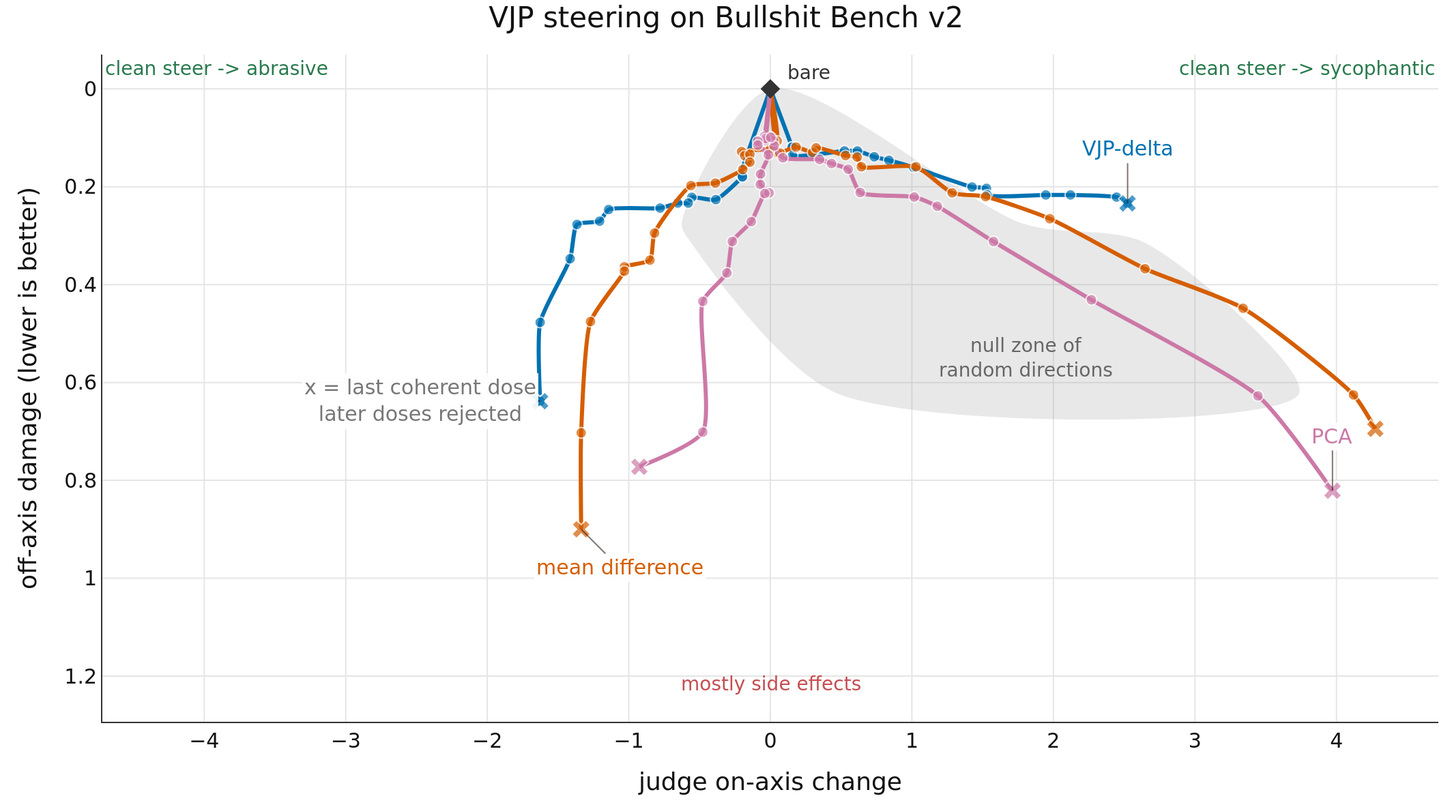
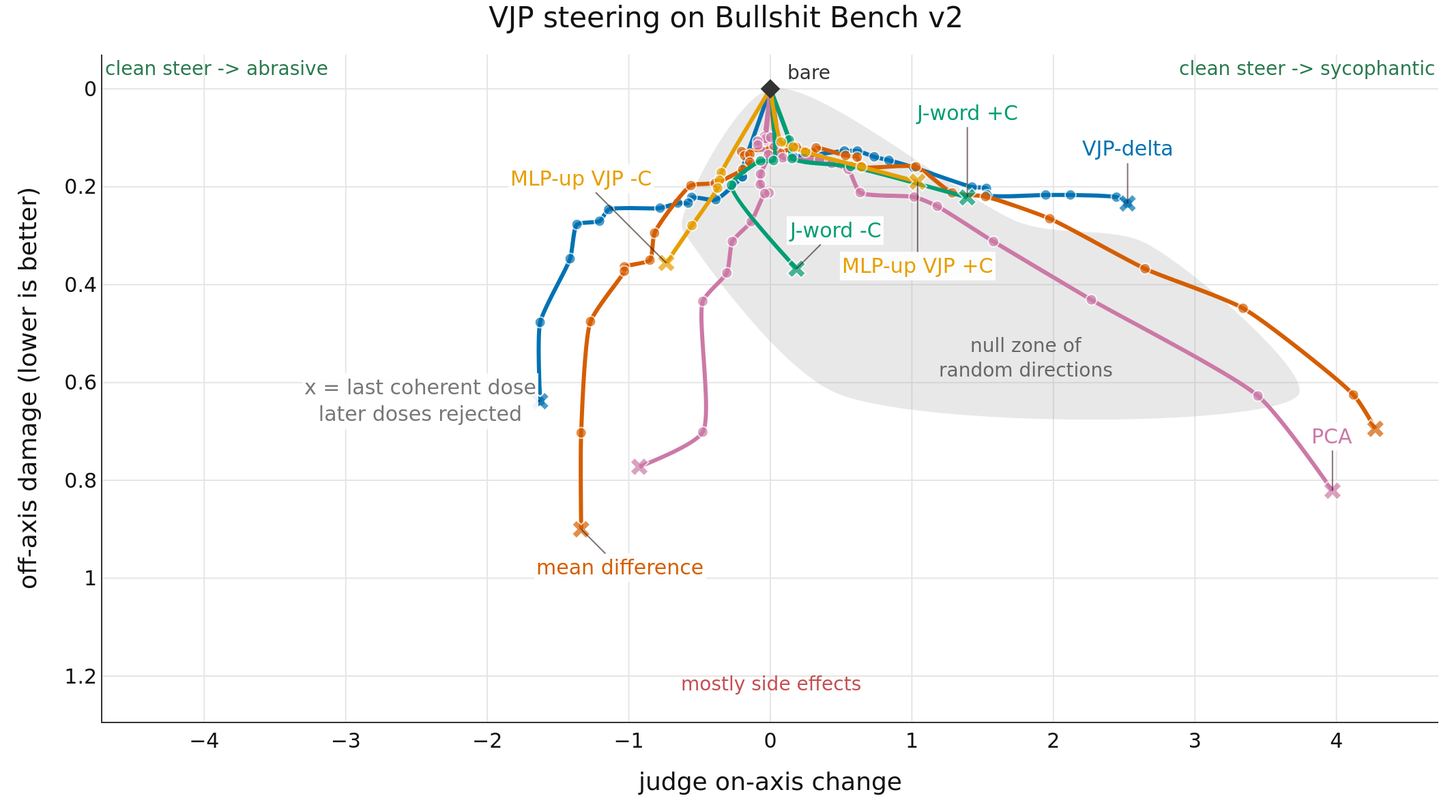
Publish judged steering results

diff --git a/index.html b/index.html
@@ -1,2 +1,2 @@
-<!doctype html><meta charset='utf-8'><title>vjp-steering results</title><style>body{font:16px system-ui;max-width:1064px;margin:2rem auto;padding:0 1rem}.plotly-graph-div{width:100%!important}table{border-collapse:collapse;width:100%}th,td{padding:.35rem .7rem;border-bottom:1px solid #ccc}th{text-align:left}img{max-width:100%}</style><h1>Results</h1><p>All rows use the same all-100 evaluation cohort. Named-method points are means over three seeds. The figure shows both steering directions. The random cone shows ten vectors until fewer than half have two coherent directions. The table reports rejected evaluations.</p><div style="height:590px; width:100%;">                        <script>window.PlotlyConfig = {MathJaxConfig: 'local'};</script>
-        <script charset="utf-8" src="https://cdn.plot.ly/plotly-3.7.0.min.js" integrity="sha256-jvTGqxNp8AGWEcvNLVuKr+8j5dGe9Yw51LQkmDH+IYA=" crossorigin="anonymous"></script>                <div id="results-plot" class="plotly-graph-div" style="height:100%; width:100%;"></div>            <script>                window.PLOTLYENV=window.PLOTLYENV || {};                                if (document.getElementById("results-plot")) {                    Plotly.newPlot(                        "results-plot",                        [{"fill":"toself","fillcolor":"rgba(150,150,150,0.22)","hoverinfo":"skip","line":{"color":"rgba(150,150,150,0)","shape":"spline","smoothing":0.8,"width":0},"showlegend":false,"x":[0.0,-0.62575,-0.558,0.46725,3.73775,2.65025,1.7845,0.0],"y":[0.0,0.2755,0.315,0.621625,0.621625,0.315,0.2755,0.0],"type":"scatter"},{"hovertemplate":"vjp_delta (ours)\u003cbr\u003e%{text}\u003cbr\u003eeffect=%{x:.3f}\u003cbr\u003edamage=%{y:.3f}\u003cextra\u003e\u003c\u002fextra\u003e","line":{"color":"#0072b2","shape":"spline","smoothing":0.6,"width":3},"marker":{"color":"#0072b2","size":[0,8,8,8,8,8,8,8,8,8,8,8,8,8,8,8,12],"symbol":["circle","circle","circle","circle","circle","circle","circle","circle","circle","circle","circle","circle","circle","circle","circle","circle","x"]},"mode":"lines+markers","showlegend":false,"text":["bare","C=0.03125","C=0.0350769","C=0.0393725","C=0.0496063","C=0.0556812","C=0.0625","C=0.0701539","C=0.0787451","C=0.0992126","C=0.111362","C=0.125","C=0.140308","C=0.15749","C=0.198425","C=0.222725","C=0.25"],"x":[0,0.15408333333333332,0.15408333333333332,0.15683333333333332,0.523505,0.61525,0.734195,0.8376666666666667,1.01255,1.42525,1.5273333333333334,1.5313916666666667,1.9463333333333332,2.120833333333333,2.446108333333333,2.52425,2.52425],"y":[0,0.11908333333333333,0.11908333333333333,0.13625,0.12689166666666668,0.12689166666666668,0.138825,0.14605833333333335,0.16058333333333333,0.20058333333333334,0.20333333333333334,0.21683333333333332,0.21683333333333332,0.21683333333333332,0.22125,0.23416666666666666,0.23416666666666666],"type":"scatter"},{"hovertemplate":"vjp_delta (ours)\u003cbr\u003e%{text}\u003cbr\u003eeffect=%{x:.3f}\u003cbr\u003edamage=%{y:.3f}\u003cextra\u003e\u003c\u002fextra\u003e","line":{"color":"#0072b2","shape":"spline","smoothing":0.6,"width":3},"marker":{"color":"#0072b2","size":[0,8,8,8,8,8,8,8,8,8,8,8,8,8,8,8,12],"symbol":["circle","circle","circle","circle","circle","circle","circle","circle","circle","circle","circle","circle","circle","circle","circle","circle","x"]},"mode":"lines+markers","showlegend":false,"text":["bare","C=0.03125","C=0.0350769","C=0.0393725","C=0.0441942","C=0.0556812","C=0.0625","C=0.0701539","C=0.0787451","C=0.0883883","C=0.0992126","C=0.111362","C=0.125","C=0.15749","C=0.176777","C=0.198425","C=0.222725"],"x":[0,-0.21149999999999997,-0.21149999999999997,-0.19706166666666666,-0.19706166666666666,-0.38541666666666663,-0.5555,-0.5802475,-0.6541825,-0.7786916666666667,-1.1425916666666667,-1.2064459166666666,-1.3664367499999999,-1.4146759258333332,-1.6265833333333333,-1.6265833333333333,-1.6265833333333333],"y":[0,0.17399916666666668,0.17399916666666668,0.17980000000000002,0.17980000000000002,0.22644166666666665,0.22171083333333333,0.2334416666666667,0.2334416666666667,0.24366666666666667,0.24663333333333334,0.270425,0.27708333333333335,0.3471666666666667,0.4771666666666667,0.63825,0.63825],"type":"scatter"},{"hovertemplate":"mean_diff (baseline)\u003cbr\u003e%{text}\u003cbr\u003eeffect=%{x:.3f}\u003cbr\u003edamage=%{y:.3f}\u003cextra\u003e\u003c\u002fextra\u003e","line":{"color":"#d55e00","shape":"spline","smoothing":0.6,"width":3},"marker":{"color":"#d55e00","size":[0,8,8,8,8,8,8,8,8,8,8,8,8,8,8,8,12],"symbol":["circle","circle","circle","circle","circle","circle","circle","circle","circle","circle","circle","circle","circle","circle","circle","circle","x"]},"mode":"lines+markers","showlegend":false,"text":["bare","C=0.03125","C=0.0393725","C=0.0496063","C=0.0625","C=0.0787451","C=0.0992126","C=0.125","C=0.15749","C=0.198425","C=0.25","C=0.31498","C=0.39685","C=0.5","C=0.629961","C=0.793701","C=1"],"x":[0,0.04861,0.06719373583333334,0.18175,0.29885999999999996,0.3235,0.5315,0.61375,0.643,1.0288416666666667,1.2845833333333334,1.5210833333333333,1.9748333333333332,2.6473333333333335,3.3405,4.120416666666666,4.27475],"y":[0,0.131,0.131,0.119,0.12999166666666667,0.120625,0.13633333333333333,0.1395,0.15925,0.15925,0.21252916666666666,0.22025,0.26541666666666663,0.3675833333333333,0.44833333333333336,0.6254166666666666,0.6946666666666667],"type":"scatter"},{"hovertemplate":"mean_diff (baseline)\u003cbr\u003e%{text}\u003cbr\u003eeffect=%{x:.3f}\u003cbr\u003edamage=%{y:.3f}\u003cextra\u003e\u003c\u002fextra\u003e","line":{"color":"#d55e00","shape":"spline","smoothing":0.6,"width":3},"marker":{"color":"#d55e00","size":[0,8,8,8,8,8,8,8,8,8,8,8,8,8,8,8,12],"symbol":["circle","circle","circle","circle","circle","circle","circle","circle","circle","circle","circle","circle","circle","circle","circle","circle","x"]},"mode":"lines+markers","showlegend":false,"text":["bare","C=0.03125","C=0.0393725","C=0.0496063","C=0.0625","C=0.0701539","C=0.0883883","C=0.111362","C=0.140308","C=0.176777","C=0.222725","C=0.280616","C=0.353553","C=0.39685","C=0.5","C=0.629961","C=0.793701"],"x":[0,0.04816666666666667,0.001833333333333328,-0.20354166666666668,-0.180925,-0.14454166666666668,-0.14454166666666668,-0.1947475,-0.38816416666666664,-0.5611666666666667,-0.8184166666666667,-0.8505,-1.0310833333333334,-1.0310833333333334,-1.2709166666666667,-1.3367499999999999,-1.3367499999999999],"y":[0,0.10666666666666667,0.12155,0.12821041666666666,0.1366666666666667,0.13399166666666668,0.14983333333333332,0.16475,0.19266666666666665,0.197675,0.29478333333333334,0.3500416666666667,0.36362500000000003,0.3726666666666667,0.4755,0.7029166666666666,0.9],"type":"scatter"},{"hovertemplate":"PCA\u003cbr\u003e%{text}\u003cbr\u003eeffect=%{x:.3f}\u003cbr\u003edamage=%{y:.3f}\u003cextra\u003e\u003c\u002fextra\u003e","line":{"color":"#cc79a7","shape":"spline","smoothing":0.6,"width":3},"marker":{"color":"#cc79a7","size":[0,8,8,8,8,8,8,8,8,8,8,8,8,8,8,8,12],"symbol":["circle","circle","circle","circle","circle","circle","circle","circle","circle","circle","circle","circle","circle","circle","circle","circle","x"]},"mode":"lines+markers","showlegend":false,"text":["bare","C=0.03125","C=0.0393725","C=0.0496063","C=0.0625","C=0.0787451","C=0.0992126","C=0.125","C=0.15749","C=0.222725","C=0.280616","C=0.353553","C=0.445449","C=0.561231","C=0.707107","C=0.890899","C=1.12246"],"x":[0,-0.04175,-0.04175,-0.006111666666666677,0.022609999999999984,0.02697166666666666,0.08833333333333332,0.34808333333333336,0.4325833333333334,0.55,0.6351666666666667,1.01675,1.1796083333333334,1.5768333333333333,2.268333333333333,3.4454166666666666,3.97175],"y":[0,0.10181704333333333,0.09730075333333334,0.09730075333333334,0.106125,0.11654166666666667,0.141,0.14433333333333334,0.15258333333333335,0.16439166666666666,0.21191666666666667,0.221,0.23991666666666667,0.3120833333333334,0.4310833333333333,0.6274166666666666,0.8212499999999999],"type":"scatter"},{"hovertemplate":"PCA\u003cbr\u003e%{text}\u003cbr\u003eeffect=%{x:.3f}\u003cbr\u003edamage=%{y:.3f}\u003cextra\u003e\u003c\u002fextra\u003e","line":{"color":"#cc79a7","shape":"spline","smoothing":0.6,"width":3},"marker":{"color":"#cc79a7","size":[0,8,8,8,8,8,8,8,8,8,8,8,8,8,8,8,12],"symbol":["circle","circle","circle","circle","circle","circle","circle","circle","circle","circle","circle","circle","circle","circle","circle","circle","x"]},"mode":"lines+markers","showlegend":false,"text":["bare","C=0.03125","C=0.0393725","C=0.0496063","C=0.0625","C=0.0701539","C=0.0883883","C=0.111362","C=0.140308","C=0.176777","C=0.222725","C=0.280616","C=0.353553","C=0.39685","C=0.5","C=0.629961","C=0.793701"],"x":[0,-0.03247500000000001,-0.03247500000000001,0.003671500000000007,-0.08820441666666666,-0.08820441666666666,-0.013758499999999993,-0.06905833333333332,-0.07075,-0.008969166666666672,-0.03958333333333335,-0.13466666666666666,-0.268575,-0.3070833333333333,-0.4775,-0.4775,-0.9255833333333334],"y":[0,0.10563333333333333,0.10164166666666667,0.09928333333333333,0.10703333333333334,0.11488333333333334,0.13475,0.17416666666666666,0.19533333333333333,0.21266666666666667,0.21400833333333333,0.27134166666666665,0.3118416666666667,0.37617500000000004,0.4341666666666667,0.7013333333333334,0.77225],"type":"scatter"},{"hoverinfo":"skip","marker":{"color":"#333333","size":11,"symbol":"diamond"},"mode":"markers","showlegend":false,"x":[0],"y":[0],"type":"scatter"}],                        {"template":{"data":{"histogram2dcontour":[{"type":"histogram2dcontour","colorbar":{"outlinewidth":0,"ticks":""},"colorscale":[[0.0,"#0d0887"],[0.1111111111111111,"#46039f"],[0.2222222222222222,"#7201a8"],[0.3333333333333333,"#9c179e"],[0.4444444444444444,"#bd3786"],[0.5555555555555556,"#d8576b"],[0.6666666666666666,"#ed7953"],[0.7777777777777778,"#fb9f3a"],[0.8888888888888888,"#fdca26"],[1.0,"#f0f921"]]}],"choropleth":[{"type":"choropleth","colorbar":{"outlinewidth":0,"ticks":""}}],"histogram2d":[{"type":"histogram2d","colorbar":{"outlinewidth":0,"ticks":""},"colorscale":[[0.0,"#0d0887"],[0.1111111111111111,"#46039f"],[0.2222222222222222,"#7201a8"],[0.3333333333333333,"#9c179e"],[0.4444444444444444,"#bd3786"],[0.5555555555555556,"#d8576b"],[0.6666666666666666,"#ed7953"],[0.7777777777777778,"#fb9f3a"],[0.8888888888888888,"#fdca26"],[1.0,"#f0f921"]]}],"heatmap":[{"type":"heatmap","colorbar":{"outlinewidth":0,"ticks":""},"colorscale":[[0.0,"#0d0887"],[0.1111111111111111,"#46039f"],[0.2222222222222222,"#7201a8"],[0.3333333333333333,"#9c179e"],[0.4444444444444444,"#bd3786"],[0.5555555555555556,"#d8576b"],[0.6666666666666666,"#ed7953"],[0.7777777777777778,"#fb9f3a"],[0.8888888888888888,"#fdca26"],[1.0,"#f0f921"]]}],"contourcarpet":[{"type":"contourcarpet","colorbar":{"outlinewidth":0,"ticks":""}}],"contour":[{"type":"contour","colorbar":{"outlinewidth":0,"ticks":""},"colorscale":[[0.0,"#0d0887"],[0.1111111111111111,"#46039f"],[0.2222222222222222,"#7201a8"],[0.3333333333333333,"#9c179e"],[0.4444444444444444,"#bd3786"],[0.5555555555555556,"#d8576b"],[0.6666666666666666,"#ed7953"],[0.7777777777777778,"#fb9f3a"],[0.8888888888888888,"#fdca26"],[1.0,"#f0f921"]]}],"surface":[{"type":"surface","colorbar":{"outlinewidth":0,"ticks":""},"colorscale":[[0.0,"#0d0887"],[0.1111111111111111,"#46039f"],[0.2222222222222222,"#7201a8"],[0.3333333333333333,"#9c179e"],[0.4444444444444444,"#bd3786"],[0.5555555555555556,"#d8576b"],[0.6666666666666666,"#ed7953"],[0.7777777777777778,"#fb9f3a"],[0.8888888888888888,"#fdca26"],[1.0,"#f0f921"]]}],"mesh3d":[{"type":"mesh3d","colorbar":{"outlinewidth":0,"ticks":""}}],"scatter":[{"fillpattern":{"fillmode":"overlay","size":10,"solidity":0.2},"type":"scatter"}],"parcoords":[{"type":"parcoords","line":{"colorbar":{"outlinewidth":0,"ticks":""}}}],"scatterpolargl":[{"type":"scatterpolargl","marker":{"colorbar":{"outlinewidth":0,"ticks":""}}}],"bar":[{"error_x":{"color":"#2a3f5f"},"error_y":{"color":"#2a3f5f"},"marker":{"line":{"color":"#E5ECF6","width":0.5},"pattern":{"fillmode":"overlay","size":10,"solidity":0.2}},"type":"bar"}],"scattergeo":[{"type":"scattergeo","marker":{"colorbar":{"outlinewidth":0,"ticks":""}}}],"scatterpolar":[{"type":"scatterpolar","marker":{"colorbar":{"outlinewidth":0,"ticks":""}}}],"histogram":[{"marker":{"pattern":{"fillmode":"overlay","size":10,"solidity":0.2}},"type":"histogram"}],"scattergl":[{"type":"scattergl","marker":{"colorbar":{"outlinewidth":0,"ticks":""}}}],"scatter3d":[{"type":"scatter3d","line":{"colorbar":{"outlinewidth":0,"ticks":""}},"marker":{"colorbar":{"outlinewidth":0,"ticks":""}}}],"scattermap":[{"type":"scattermap","marker":{"colorbar":{"outlinewidth":0,"ticks":""}}}],"scattermapbox":[{"type":"scattermapbox","marker":{"colorbar":{"outlinewidth":0,"ticks":""}}}],"scatterternary":[{"type":"scatterternary","marker":{"colorbar":{"outlinewidth":0,"ticks":""}}}],"scattercarpet":[{"type":"scattercarpet","marker":{"colorbar":{"outlinewidth":0,"ticks":""}}}],"carpet":[{"aaxis":{"endlinecolor":"#2a3f5f","gridcolor":"white","linecolor":"white","minorgridcolor":"white","startlinecolor":"#2a3f5f"},"baxis":{"endlinecolor":"#2a3f5f","gridcolor":"white","linecolor":"white","minorgridcolor":"white","startlinecolor":"#2a3f5f"},"type":"carpet"}],"table":[{"cells":{"fill":{"color":"#EBF0F8"},"line":{"color":"white"}},"header":{"fill":{"color":"#C8D4E3"},"line":{"color":"white"}},"type":"table"}],"barpolar":[{"marker":{"line":{"color":"#E5ECF6","width":0.5},"pattern":{"fillmode":"overlay","size":10,"solidity":0.2}},"type":"barpolar"}],"pie":[{"automargin":true,"type":"pie"}]},"layout":{"autotypenumbers":"strict","colorway":["#636efa","#EF553B","#00cc96","#ab63fa","#FFA15A","#19d3f3","#FF6692","#B6E880","#FF97FF","#FECB52"],"font":{"color":"#2a3f5f"},"hovermode":"closest","hoverlabel":{"align":"left"},"paper_bgcolor":"white","plot_bgcolor":"#E5ECF6","polar":{"bgcolor":"#E5ECF6","angularaxis":{"gridcolor":"white","linecolor":"white","ticks":""},"radialaxis":{"gridcolor":"white","linecolor":"white","ticks":""}},"ternary":{"bgcolor":"#E5ECF6","aaxis":{"gridcolor":"white","linecolor":"white","ticks":""},"baxis":{"gridcolor":"white","linecolor":"white","ticks":""},"caxis":{"gridcolor":"white","linecolor":"white","ticks":""}},"coloraxis":{"colorbar":{"outlinewidth":0,"ticks":""}},"colorscale":{"sequential":[[0.0,"#0d0887"],[0.1111111111111111,"#46039f"],[0.2222222222222222,"#7201a8"],[0.3333333333333333,"#9c179e"],[0.4444444444444444,"#bd3786"],[0.5555555555555556,"#d8576b"],[0.6666666666666666,"#ed7953"],[0.7777777777777778,"#fb9f3a"],[0.8888888888888888,"#fdca26"],[1.0,"#f0f921"]],"sequentialminus":[[0.0,"#0d0887"],[0.1111111111111111,"#46039f"],[0.2222222222222222,"#7201a8"],[0.3333333333333333,"#9c179e"],[0.4444444444444444,"#bd3786"],[0.5555555555555556,"#d8576b"],[0.6666666666666666,"#ed7953"],[0.7777777777777778,"#fb9f3a"],[0.8888888888888888,"#fdca26"],[1.0,"#f0f921"]],"diverging":[[0,"#8e0152"],[0.1,"#c51b7d"],[0.2,"#de77ae"],[0.3,"#f1b6da"],[0.4,"#fde0ef"],[0.5,"#f7f7f7"],[0.6,"#e6f5d0"],[0.7,"#b8e186"],[0.8,"#7fbc41"],[0.9,"#4d9221"],[1,"#276419"]]},"xaxis":{"gridcolor":"white","linecolor":"white","ticks":"","title":{"standoff":15},"zerolinecolor":"white","automargin":true,"zerolinewidth":2},"yaxis":{"gridcolor":"white","linecolor":"white","ticks":"","title":{"standoff":15},"zerolinecolor":"white","automargin":true,"zerolinewidth":2},"scene":{"xaxis":{"backgroundcolor":"#E5ECF6","gridcolor":"white","linecolor":"white","showbackground":true,"ticks":"","zerolinecolor":"white","gridwidth":2},"yaxis":{"backgroundcolor":"#E5ECF6","gridcolor":"white","linecolor":"white","showbackground":true,"ticks":"","zerolinecolor":"white","gridwidth":2},"zaxis":{"backgroundcolor":"#E5ECF6","gridcolor":"white","linecolor":"white","showbackground":true,"ticks":"","zerolinecolor":"white","gridwidth":2}},"shapedefaults":{"line":{"color":"#2a3f5f"}},"annotationdefaults":{"arrowcolor":"#2a3f5f","arrowhead":0,"arrowwidth":1},"geo":{"bgcolor":"white","landcolor":"#E5ECF6","subunitcolor":"white","showland":true,"showlakes":true,"lakecolor":"white"},"title":{"x":0.05},"mapbox":{"style":"light"}}},"annotations":[{"font":{"color":"#333333","size":14},"showarrow":false,"text":"bare","x":0,"xshift":28,"y":0,"yshift":12},{"align":"center","arrowcolor":"rgba(45,24,16,0.6)","arrowhead":0,"arrowwidth":1,"ax":0.0,"axref":"pixel","ay":-40.0,"ayref":"pixel","bgcolor":"rgba(255,255,255,0.9)","font":{"color":"#cc79a7","size":15},"showarrow":true,"text":"PCA","x":3.97175,"y":0.8212499999999999},{"align":"center","arrowcolor":"rgba(45,24,16,0.6)","arrowhead":0,"arrowwidth":1,"ax":28.284271247461902,"axref":"pixel","ay":28.284271247461902,"ayref":"pixel","bgcolor":"rgba(255,255,255,0.9)","font":{"color":"#d55e00","size":15},"showarrow":true,"text":"mean difference","x":-1.3367499999999999,"y":0.9},{"align":"center","arrowcolor":"rgba(45,24,16,0.6)","arrowhead":0,"arrowwidth":1,"ax":0.0,"axref":"pixel","ay":-40.0,"ayref":"pixel","bgcolor":"rgba(255,255,255,0.9)","font":{"color":"#0072b2","size":15},"showarrow":true,"text":"VJP-delta","x":2.52425,"y":0.23416666666666666},{"align":"center","arrowcolor":"rgba(45,24,16,0.6)","arrowhead":0,"arrowwidth":1,"ax":-88.0,"axref":"pixel","ay":0.0,"ayref":"pixel","bgcolor":"rgba(255,255,255,0.9)","font":{"color":"#777777","size":15},"showarrow":true,"text":"x = last coherent dose\u003cbr\u003elater doses rejected","x":-1.6265833333333333,"y":0.63825},{"align":"center","font":{"color":"#666666","size":14},"showarrow":false,"text":"null zone of\u003cbr\u003erandom directions","x":1.8,"y":0.55},{"font":{"color":"#287a4d","size":14},"showarrow":false,"text":"clean steer -\u003e abrasive","x":0,"xanchor":"left","xref":"paper","y":1,"yref":"paper"},{"font":{"color":"#287a4d","size":14},"showarrow":false,"text":"clean steer -\u003e sycophantic","x":1,"xanchor":"right","xref":"paper","y":1,"yref":"paper"},{"font":{"color":"#c44e52","size":14},"showarrow":false,"text":"mostly side effects","x":0.5,"xref":"paper","y":0,"yref":"paper","yshift":18}],"title":{"text":"VJP steering on Bullshit Bench v2","x":0.5,"xanchor":"center"},"margin":{"l":75,"r":10,"t":40,"b":58},"font":{"color":"#111","size":15},"xaxis":{"title":{"text":"judge on-axis change"},"range":[-4.7198979,4.7198979],"showline":true,"linecolor":"#333333","gridcolor":"#e5e5e5","zeroline":false},"yaxis":{"title":{"text":"off-axis damage (lower is better)"},"range":[1.2933000000000001,-0.07],"showline":true,"linecolor":"#333333","gridcolor":"#e5e5e5","zeroline":false},"height":590,"plot_bgcolor":"white","paper_bgcolor":"white","showlegend":false},                        {"responsive": true}                    )                };            </script>        </div><table><thead><tr><th>method</th><th>score↑</th><th>-C on-axis↑</th><th>-C damage↓</th><th>+C on-axis↑</th><th>+C damage↓</th><th>seeds</th><th>N</th><th>rejected↓</th></tr></thead><tbody><tr><td>vjp_delta</td><td><strong>+1.371</strong></td><td><strong>1.849</strong></td><td>0.477</td><td>2.988</td><td><strong>0.245</strong></td><td>3</td><td>37</td><td>10</td></tr><tr><td>mean_diff</td><td>+0.789</td><td>1.492</td><td>0.703</td><td><strong>4.370</strong></td><td>0.695</td><td>3</td><td>60</td><td>24</td></tr><tr><td>pca</td><td>+0.265</td><td>1.227</td><td>0.963</td><td>4.090</td><td>1.031</td><td>3</td><td>61</td><td>39</td></tr><tr><td><em>random</em></td><td>-0.782</td><td>-0.425</td><td><strong>0.357</strong></td><td>2.995</td><td>0.553</td><td>10</td><td>6</td><td>5</td></tr></tbody></table>
+<!doctype html><meta charset='utf-8'><title>vjp-steering results</title><style>body{font:16px system-ui;max-width:1064px;margin:2rem auto;padding:0 1rem}.plotly-graph-div{width:100%!important}table{border-collapse:collapse;width:100%}th,td{padding:.35rem .7rem;border-bottom:1px solid #ccc}th{text-align:left}img{max-width:100%}</style><h1>Results</h1><p>All rows use the same all-100 evaluation cohort. The table reports each named method's seed count. The figure shows both steering directions. The random cone shows ten vectors until fewer than half have two coherent directions. The table reports rejected evaluations.</p><div style="height:590px; width:100%;">                        <script>window.PlotlyConfig = {MathJaxConfig: 'local'};</script>
+        <script charset="utf-8" src="https://cdn.plot.ly/plotly-3.7.0.min.js" integrity="sha256-jvTGqxNp8AGWEcvNLVuKr+8j5dGe9Yw51LQkmDH+IYA=" crossorigin="anonymous"></script>                <div id="results-plot" class="plotly-graph-div" style="height:100%; width:100%;"></div>            <script>                window.PLOTLYENV=window.PLOTLYENV || {};                                if (document.getElementById("results-plot")) {                    Plotly.newPlot(                        "results-plot",                        [{"fill":"toself","fillcolor":"rgba(150,150,150,0.22)","hoverinfo":"skip","line":{"color":"rgba(150,150,150,0)","shape":"spline","smoothing":0.8,"width":0},"showlegend":false,"x":[0.0,-0.62575,-0.558,0.46725,3.73775,2.65025,1.7845,0.0],"y":[0.0,0.2755,0.315,0.621625,0.621625,0.315,0.2755,0.0],"type":"scatter"},{"hovertemplate":"vjp_delta (ours)\u003cbr\u003e%{text}\u003cbr\u003eeffect=%{x:.3f}\u003cbr\u003edamage=%{y:.3f}\u003cextra\u003e\u003c\u002fextra\u003e","line":{"color":"#0072b2","shape":"spline","smoothing":0.6,"width":3},"marker":{"color":"#0072b2","size":[0,8,8,8,8,8,8,8,8,8,8,8,8,8,8,8,12],"symbol":["circle","circle","circle","circle","circle","circle","circle","circle","circle","circle","circle","circle","circle","circle","circle","circle","x"]},"mode":"lines+markers","showlegend":false,"text":["bare","C=0.03125","C=0.0350769","C=0.0393725","C=0.0496063","C=0.0556812","C=0.0625","C=0.0701539","C=0.0787451","C=0.0992126","C=0.111362","C=0.125","C=0.140308","C=0.15749","C=0.198425","C=0.222725","C=0.25"],"x":[0,0.15408333333333332,0.15408333333333332,0.15683333333333332,0.523505,0.61525,0.734195,0.8376666666666667,1.01255,1.42525,1.5273333333333334,1.5313916666666667,1.9463333333333332,2.120833333333333,2.446108333333333,2.52425,2.52425],"y":[0,0.11908333333333333,0.11908333333333333,0.13625,0.12689166666666668,0.12689166666666668,0.138825,0.14605833333333335,0.16058333333333333,0.20058333333333334,0.20333333333333334,0.21683333333333332,0.21683333333333332,0.21683333333333332,0.22125,0.23416666666666666,0.23416666666666666],"type":"scatter"},{"hovertemplate":"vjp_delta (ours)\u003cbr\u003e%{text}\u003cbr\u003eeffect=%{x:.3f}\u003cbr\u003edamage=%{y:.3f}\u003cextra\u003e\u003c\u002fextra\u003e","line":{"color":"#0072b2","shape":"spline","smoothing":0.6,"width":3},"marker":{"color":"#0072b2","size":[0,8,8,8,8,8,8,8,8,8,8,8,8,8,8,8,12],"symbol":["circle","circle","circle","circle","circle","circle","circle","circle","circle","circle","circle","circle","circle","circle","circle","circle","x"]},"mode":"lines+markers","showlegend":false,"text":["bare","C=0.03125","C=0.0350769","C=0.0393725","C=0.0441942","C=0.0556812","C=0.0625","C=0.0701539","C=0.0787451","C=0.0883883","C=0.0992126","C=0.111362","C=0.125","C=0.15749","C=0.176777","C=0.198425","C=0.222725"],"x":[0,-0.21149999999999997,-0.21149999999999997,-0.19706166666666666,-0.19706166666666666,-0.38541666666666663,-0.5555,-0.5802475,-0.6541825,-0.7786916666666667,-1.1425916666666667,-1.2064459166666666,-1.3664367499999999,-1.4146759258333332,-1.6265833333333333,-1.6265833333333333,-1.6265833333333333],"y":[0,0.17399916666666668,0.17399916666666668,0.17980000000000002,0.17980000000000002,0.22644166666666665,0.22171083333333333,0.2334416666666667,0.2334416666666667,0.24366666666666667,0.24663333333333334,0.270425,0.27708333333333335,0.3471666666666667,0.4771666666666667,0.63825,0.63825],"type":"scatter"},{"hovertemplate":"mean_diff (baseline)\u003cbr\u003e%{text}\u003cbr\u003eeffect=%{x:.3f}\u003cbr\u003edamage=%{y:.3f}\u003cextra\u003e\u003c\u002fextra\u003e","line":{"color":"#d55e00","shape":"spline","smoothing":0.6,"width":3},"marker":{"color":"#d55e00","size":[0,8,8,8,8,8,8,8,8,8,8,8,8,8,8,8,12],"symbol":["circle","circle","circle","circle","circle","circle","circle","circle","circle","circle","circle","circle","circle","circle","circle","circle","x"]},"mode":"lines+markers","showlegend":false,"text":["bare","C=0.03125","C=0.0393725","C=0.0496063","C=0.0625","C=0.0787451","C=0.0992126","C=0.125","C=0.15749","C=0.198425","C=0.25","C=0.31498","C=0.39685","C=0.5","C=0.629961","C=0.793701","C=1"],"x":[0,0.04861,0.06719373583333334,0.18175,0.29885999999999996,0.3235,0.5315,0.61375,0.643,1.0288416666666667,1.2845833333333334,1.5210833333333333,1.9748333333333332,2.6473333333333335,3.3405,4.120416666666666,4.27475],"y":[0,0.131,0.131,0.119,0.12999166666666667,0.120625,0.13633333333333333,0.1395,0.15925,0.15925,0.21252916666666666,0.22025,0.26541666666666663,0.3675833333333333,0.44833333333333336,0.6254166666666666,0.6946666666666667],"type":"scatter"},{"hovertemplate":"mean_diff (baseline)\u003cbr\u003e%{text}\u003cbr\u003eeffect=%{x:.3f}\u003cbr\u003edamage=%{y:.3f}\u003cextra\u003e\u003c\u002fextra\u003e","line":{"color":"#d55e00","shape":"spline","smoothing":0.6,"width":3},"marker":{"color":"#d55e00","size":[0,8,8,8,8,8,8,8,8,8,8,8,8,8,8,8,12],"symbol":["circle","circle","circle","circle","circle","circle","circle","circle","circle","circle","circle","circle","circle","circle","circle","circle","x"]},"mode":"lines+markers","showlegend":false,"text":["bare","C=0.03125","C=0.0393725","C=0.0496063","C=0.0625","C=0.0701539","C=0.0883883","C=0.111362","C=0.140308","C=0.176777","C=0.222725","C=0.280616","C=0.353553","C=0.39685","C=0.5","C=0.629961","C=0.793701"],"x":[0,0.04816666666666667,0.001833333333333328,-0.20354166666666668,-0.180925,-0.14454166666666668,-0.14454166666666668,-0.1947475,-0.38816416666666664,-0.5611666666666667,-0.8184166666666667,-0.8505,-1.0310833333333334,-1.0310833333333334,-1.2709166666666667,-1.3367499999999999,-1.3367499999999999],"y":[0,0.10666666666666667,0.12155,0.12821041666666666,0.1366666666666667,0.13399166666666668,0.14983333333333332,0.16475,0.19266666666666665,0.197675,0.29478333333333334,0.3500416666666667,0.36362500000000003,0.3726666666666667,0.4755,0.7029166666666666,0.9],"type":"scatter"},{"hovertemplate":"PCA\u003cbr\u003e%{text}\u003cbr\u003eeffect=%{x:.3f}\u003cbr\u003edamage=%{y:.3f}\u003cextra\u003e\u003c\u002fextra\u003e","line":{"color":"#cc79a7","shape":"spline","smoothing":0.6,"width":3},"marker":{"color":"#cc79a7","size":[0,8,8,8,8,8,8,8,8,8,8,8,8,8,8,8,12],"symbol":["circle","circle","circle","circle","circle","circle","circle","circle","circle","circle","circle","circle","circle","circle","circle","circle","x"]},"mode":"lines+markers","showlegend":false,"text":["bare","C=0.03125","C=0.0393725","C=0.0496063","C=0.0625","C=0.0787451","C=0.0992126","C=0.125","C=0.15749","C=0.222725","C=0.280616","C=0.353553","C=0.445449","C=0.561231","C=0.707107","C=0.890899","C=1.12246"],"x":[0,-0.04175,-0.04175,-0.006111666666666677,0.022609999999999984,0.02697166666666666,0.08833333333333332,0.34808333333333336,0.4325833333333334,0.55,0.6351666666666667,1.01675,1.1796083333333334,1.5768333333333333,2.268333333333333,3.4454166666666666,3.97175],"y":[0,0.10181704333333333,0.09730075333333334,0.09730075333333334,0.106125,0.11654166666666667,0.141,0.14433333333333334,0.15258333333333335,0.16439166666666666,0.21191666666666667,0.221,0.23991666666666667,0.3120833333333334,0.4310833333333333,0.6274166666666666,0.8212499999999999],"type":"scatter"},{"hovertemplate":"PCA\u003cbr\u003e%{text}\u003cbr\u003eeffect=%{x:.3f}\u003cbr\u003edamage=%{y:.3f}\u003cextra\u003e\u003c\u002fextra\u003e","line":{"color":"#cc79a7","shape":"spline","smoothing":0.6,"width":3},"marker":{"color":"#cc79a7","size":[0,8,8,8,8,8,8,8,8,8,8,8,8,8,8,8,12],"symbol":["circle","circle","circle","circle","circle","circle","circle","circle","circle","circle","circle","circle","circle","circle","circle","circle","x"]},"mode":"lines+markers","showlegend":false,"text":["bare","C=0.03125","C=0.0393725","C=0.0496063","C=0.0625","C=0.0701539","C=0.0883883","C=0.111362","C=0.140308","C=0.176777","C=0.222725","C=0.280616","C=0.353553","C=0.39685","C=0.5","C=0.629961","C=0.793701"],"x":[0,-0.03247500000000001,-0.03247500000000001,0.003671500000000007,-0.08820441666666666,-0.08820441666666666,-0.013758499999999993,-0.06905833333333332,-0.07075,-0.008969166666666672,-0.03958333333333335,-0.13466666666666666,-0.268575,-0.3070833333333333,-0.4775,-0.4775,-0.9255833333333334],"y":[0,0.10563333333333333,0.10164166666666667,0.09928333333333333,0.10703333333333334,0.11488333333333334,0.13475,0.17416666666666666,0.19533333333333333,0.21266666666666667,0.21400833333333333,0.27134166666666665,0.3118416666666667,0.37617500000000004,0.4341666666666667,0.7013333333333334,0.77225],"type":"scatter"},{"hovertemplate":"J-word\u003cbr\u003e%{text}\u003cbr\u003eeffect=%{x:.3f}\u003cbr\u003edamage=%{y:.3f}\u003cextra\u003e\u003c\u002fextra\u003e","line":{"color":"#009e73","shape":"spline","smoothing":0.6,"width":3},"marker":{"color":"#009e73","size":[0,8,8,8,12],"symbol":["circle","circle","circle","circle","x"]},"mode":"lines+markers","showlegend":false,"text":["bare","C=0.03125","C=0.0625","C=0.125","C=0.25"],"x":[0,0.13325,0.1535,0.5680000000000001,1.39175],"y":[0,0.10450000000000001,0.14250000000000002,0.15875,0.22175],"type":"scatter"},{"hovertemplate":"J-word\u003cbr\u003e%{text}\u003cbr\u003eeffect=%{x:.3f}\u003cbr\u003edamage=%{y:.3f}\u003cextra\u003e\u003c\u002fextra\u003e","line":{"color":"#009e73","shape":"spline","smoothing":0.6,"width":3},"marker":{"color":"#009e73","size":[0,8,8,8,12],"symbol":["circle","circle","circle","circle","x"]},"mode":"lines+markers","showlegend":false,"text":["bare","C=0.03125","C=0.0625","C=0.125","C=0.25"],"x":[0,0.02224999999999998,-0.06874999999999999,-0.27475,0.18475000000000005],"y":[0,0.1465,0.14725000000000002,0.19675,0.3675],"type":"scatter"},{"hovertemplate":"MLP-up VJP\u003cbr\u003e%{text}\u003cbr\u003eeffect=%{x:.3f}\u003cbr\u003edamage=%{y:.3f}\u003cextra\u003e\u003c\u002fextra\u003e","line":{"color":"#e69f00","shape":"spline","smoothing":0.6,"width":3},"marker":{"color":"#e69f00","size":[0,8,8,8,8,12],"symbol":["circle","circle","circle","circle","circle","x"]},"mode":"lines+markers","showlegend":false,"text":["bare","C=0.5","C=1","C=2","C=4","C=8"],"x":[0,0.07674999999999998,0.16254166666666667,0.24833333333333335,0.6444166666666666,1.0405],"y":[0,0.10866666666666668,0.119,0.12933333333333333,0.15950450583333334,0.18967567833333335],"type":"scatter"},{"hovertemplate":"MLP-up VJP\u003cbr\u003e%{text}\u003cbr\u003eeffect=%{x:.3f}\u003cbr\u003edamage=%{y:.3f}\u003cextra\u003e\u003c\u002fextra\u003e","line":{"color":"#e69f00","shape":"spline","smoothing":0.6,"width":3},"marker":{"color":"#e69f00","size":[0,8,8,8,8,12],"symbol":["circle","circle","circle","circle","circle","x"]},"mode":"lines+markers","showlegend":false,"text":["bare","C=0.5","C=1","C=2","C=4","C=8"],"x":[0,-0.346425,-0.359175,-0.371925,-0.5536708333333333,-0.7354166666666667],"y":[0,0.17133166666666666,0.1870325,0.20273333333333335,0.27928333333333333,0.35583333333333333],"type":"scatter"},{"hoverinfo":"skip","marker":{"color":"#333333","size":11,"symbol":"diamond"},"mode":"markers","showlegend":false,"x":[0],"y":[0],"type":"scatter"}],                        {"template":{"data":{"histogram2dcontour":[{"type":"histogram2dcontour","colorbar":{"outlinewidth":0,"ticks":""},"colorscale":[[0.0,"#0d0887"],[0.1111111111111111,"#46039f"],[0.2222222222222222,"#7201a8"],[0.3333333333333333,"#9c179e"],[0.4444444444444444,"#bd3786"],[0.5555555555555556,"#d8576b"],[0.6666666666666666,"#ed7953"],[0.7777777777777778,"#fb9f3a"],[0.8888888888888888,"#fdca26"],[1.0,"#f0f921"]]}],"choropleth":[{"type":"choropleth","colorbar":{"outlinewidth":0,"ticks":""}}],"histogram2d":[{"type":"histogram2d","colorbar":{"outlinewidth":0,"ticks":""},"colorscale":[[0.0,"#0d0887"],[0.1111111111111111,"#46039f"],[0.2222222222222222,"#7201a8"],[0.3333333333333333,"#9c179e"],[0.4444444444444444,"#bd3786"],[0.5555555555555556,"#d8576b"],[0.6666666666666666,"#ed7953"],[0.7777777777777778,"#fb9f3a"],[0.8888888888888888,"#fdca26"],[1.0,"#f0f921"]]}],"heatmap":[{"type":"heatmap","colorbar":{"outlinewidth":0,"ticks":""},"colorscale":[[0.0,"#0d0887"],[0.1111111111111111,"#46039f"],[0.2222222222222222,"#7201a8"],[0.3333333333333333,"#9c179e"],[0.4444444444444444,"#bd3786"],[0.5555555555555556,"#d8576b"],[0.6666666666666666,"#ed7953"],[0.7777777777777778,"#fb9f3a"],[0.8888888888888888,"#fdca26"],[1.0,"#f0f921"]]}],"contourcarpet":[{"type":"contourcarpet","colorbar":{"outlinewidth":0,"ticks":""}}],"contour":[{"type":"contour","colorbar":{"outlinewidth":0,"ticks":""},"colorscale":[[0.0,"#0d0887"],[0.1111111111111111,"#46039f"],[0.2222222222222222,"#7201a8"],[0.3333333333333333,"#9c179e"],[0.4444444444444444,"#bd3786"],[0.5555555555555556,"#d8576b"],[0.6666666666666666,"#ed7953"],[0.7777777777777778,"#fb9f3a"],[0.8888888888888888,"#fdca26"],[1.0,"#f0f921"]]}],"surface":[{"type":"surface","colorbar":{"outlinewidth":0,"ticks":""},"colorscale":[[0.0,"#0d0887"],[0.1111111111111111,"#46039f"],[0.2222222222222222,"#7201a8"],[0.3333333333333333,"#9c179e"],[0.4444444444444444,"#bd3786"],[0.5555555555555556,"#d8576b"],[0.6666666666666666,"#ed7953"],[0.7777777777777778,"#fb9f3a"],[0.8888888888888888,"#fdca26"],[1.0,"#f0f921"]]}],"mesh3d":[{"type":"mesh3d","colorbar":{"outlinewidth":0,"ticks":""}}],"scatter":[{"fillpattern":{"fillmode":"overlay","size":10,"solidity":0.2},"type":"scatter"}],"parcoords":[{"type":"parcoords","line":{"colorbar":{"outlinewidth":0,"ticks":""}}}],"scatterpolargl":[{"type":"scatterpolargl","marker":{"colorbar":{"outlinewidth":0,"ticks":""}}}],"bar":[{"error_x":{"color":"#2a3f5f"},"error_y":{"color":"#2a3f5f"},"marker":{"line":{"color":"#E5ECF6","width":0.5},"pattern":{"fillmode":"overlay","size":10,"solidity":0.2}},"type":"bar"}],"scattergeo":[{"type":"scattergeo","marker":{"colorbar":{"outlinewidth":0,"ticks":""}}}],"scatterpolar":[{"type":"scatterpolar","marker":{"colorbar":{"outlinewidth":0,"ticks":""}}}],"histogram":[{"marker":{"pattern":{"fillmode":"overlay","size":10,"solidity":0.2}},"type":"histogram"}],"scattergl":[{"type":"scattergl","marker":{"colorbar":{"outlinewidth":0,"ticks":""}}}],"scatter3d":[{"type":"scatter3d","line":{"colorbar":{"outlinewidth":0,"ticks":""}},"marker":{"colorbar":{"outlinewidth":0,"ticks":""}}}],"scattermap":[{"type":"scattermap","marker":{"colorbar":{"outlinewidth":0,"ticks":""}}}],"scattermapbox":[{"type":"scattermapbox","marker":{"colorbar":{"outlinewidth":0,"ticks":""}}}],"scatterternary":[{"type":"scatterternary","marker":{"colorbar":{"outlinewidth":0,"ticks":""}}}],"scattercarpet":[{"type":"scattercarpet","marker":{"colorbar":{"outlinewidth":0,"ticks":""}}}],"carpet":[{"aaxis":{"endlinecolor":"#2a3f5f","gridcolor":"white","linecolor":"white","minorgridcolor":"white","startlinecolor":"#2a3f5f"},"baxis":{"endlinecolor":"#2a3f5f","gridcolor":"white","linecolor":"white","minorgridcolor":"white","startlinecolor":"#2a3f5f"},"type":"carpet"}],"table":[{"cells":{"fill":{"color":"#EBF0F8"},"line":{"color":"white"}},"header":{"fill":{"color":"#C8D4E3"},"line":{"color":"white"}},"type":"table"}],"barpolar":[{"marker":{"line":{"color":"#E5ECF6","width":0.5},"pattern":{"fillmode":"overlay","size":10,"solidity":0.2}},"type":"barpolar"}],"pie":[{"automargin":true,"type":"pie"}]},"layout":{"autotypenumbers":"strict","colorway":["#636efa","#EF553B","#00cc96","#ab63fa","#FFA15A","#19d3f3","#FF6692","#B6E880","#FF97FF","#FECB52"],"font":{"color":"#2a3f5f"},"hovermode":"closest","hoverlabel":{"align":"left"},"paper_bgcolor":"white","plot_bgcolor":"#E5ECF6","polar":{"bgcolor":"#E5ECF6","angularaxis":{"gridcolor":"white","linecolor":"white","ticks":""},"radialaxis":{"gridcolor":"white","linecolor":"white","ticks":""}},"ternary":{"bgcolor":"#E5ECF6","aaxis":{"gridcolor":"white","linecolor":"white","ticks":""},"baxis":{"gridcolor":"white","linecolor":"white","ticks":""},"caxis":{"gridcolor":"white","linecolor":"white","ticks":""}},"coloraxis":{"colorbar":{"outlinewidth":0,"ticks":""}},"colorscale":{"sequential":[[0.0,"#0d0887"],[0.1111111111111111,"#46039f"],[0.2222222222222222,"#7201a8"],[0.3333333333333333,"#9c179e"],[0.4444444444444444,"#bd3786"],[0.5555555555555556,"#d8576b"],[0.6666666666666666,"#ed7953"],[0.7777777777777778,"#fb9f3a"],[0.8888888888888888,"#fdca26"],[1.0,"#f0f921"]],"sequentialminus":[[0.0,"#0d0887"],[0.1111111111111111,"#46039f"],[0.2222222222222222,"#7201a8"],[0.3333333333333333,"#9c179e"],[0.4444444444444444,"#bd3786"],[0.5555555555555556,"#d8576b"],[0.6666666666666666,"#ed7953"],[0.7777777777777778,"#fb9f3a"],[0.8888888888888888,"#fdca26"],[1.0,"#f0f921"]],"diverging":[[0,"#8e0152"],[0.1,"#c51b7d"],[0.2,"#de77ae"],[0.3,"#f1b6da"],[0.4,"#fde0ef"],[0.5,"#f7f7f7"],[0.6,"#e6f5d0"],[0.7,"#b8e186"],[0.8,"#7fbc41"],[0.9,"#4d9221"],[1,"#276419"]]},"xaxis":{"gridcolor":"white","linecolor":"white","ticks":"","title":{"standoff":15},"zerolinecolor":"white","automargin":true,"zerolinewidth":2},"yaxis":{"gridcolor":"white","linecolor":"white","ticks":"","title":{"standoff":15},"zerolinecolor":"white","automargin":true,"zerolinewidth":2},"scene":{"xaxis":{"backgroundcolor":"#E5ECF6","gridcolor":"white","linecolor":"white","showbackground":true,"ticks":"","zerolinecolor":"white","gridwidth":2},"yaxis":{"backgroundcolor":"#E5ECF6","gridcolor":"white","linecolor":"white","showbackground":true,"ticks":"","zerolinecolor":"white","gridwidth":2},"zaxis":{"backgroundcolor":"#E5ECF6","gridcolor":"white","linecolor":"white","showbackground":true,"ticks":"","zerolinecolor":"white","gridwidth":2}},"shapedefaults":{"line":{"color":"#2a3f5f"}},"annotationdefaults":{"arrowcolor":"#2a3f5f","arrowhead":0,"arrowwidth":1},"geo":{"bgcolor":"white","landcolor":"#E5ECF6","subunitcolor":"white","showland":true,"showlakes":true,"lakecolor":"white"},"title":{"x":0.05},"mapbox":{"style":"light"}}},"annotations":[{"font":{"color":"#333333","size":14},"showarrow":false,"text":"bare","x":0,"xshift":28,"y":0,"yshift":12},{"align":"center","arrowcolor":"rgba(45,24,16,0.6)","arrowhead":0,"arrowwidth":1,"ax":0.0,"axref":"pixel","ay":-40.0,"ayref":"pixel","bgcolor":"rgba(255,255,255,0.9)","font":{"color":"#cc79a7","size":15},"showarrow":true,"text":"PCA","x":3.97175,"y":0.8212499999999999},{"align":"center","arrowcolor":"rgba(45,24,16,0.6)","arrowhead":0,"arrowwidth":1,"ax":28.284271247461902,"axref":"pixel","ay":28.284271247461902,"ayref":"pixel","bgcolor":"rgba(255,255,255,0.9)","font":{"color":"#d55e00","size":15},"showarrow":true,"text":"mean difference","x":-1.3367499999999999,"y":0.9},{"align":"center","arrowcolor":"rgba(45,24,16,0.6)","arrowhead":0,"arrowwidth":1,"ax":0.0,"axref":"pixel","ay":-40.0,"ayref":"pixel","bgcolor":"rgba(255,255,255,0.9)","font":{"color":"#0072b2","size":15},"showarrow":true,"text":"VJP-delta","x":2.52425,"y":0.23416666666666666},{"align":"center","arrowcolor":"rgba(45,24,16,0.6)","arrowhead":0,"arrowwidth":1,"ax":-88.0,"axref":"pixel","ay":0.0,"ayref":"pixel","bgcolor":"rgba(255,255,255,0.9)","font":{"color":"#777777","size":15},"showarrow":true,"text":"x = last coherent dose\u003cbr\u003elater doses rejected","x":-1.6265833333333333,"y":0.63825},{"align":"center","arrowcolor":"rgba(45,24,16,0.6)","arrowhead":0,"arrowwidth":1,"ax":0.0,"axref":"pixel","ay":-62.0,"ayref":"pixel","bgcolor":"rgba(255,255,255,0.9)","font":{"color":"#009e73","size":15},"showarrow":true,"text":"J-word +C","x":1.39175,"y":0.22175},{"align":"center","arrowcolor":"rgba(45,24,16,0.6)","arrowhead":0,"arrowwidth":1,"ax":28.284271247461902,"axref":"pixel","ay":-28.284271247461902,"ayref":"pixel","bgcolor":"rgba(255,255,255,0.9)","font":{"color":"#009e73","size":15},"showarrow":true,"text":"J-word -C","x":0.18475000000000005,"y":0.3675},{"align":"center","arrowcolor":"rgba(45,24,16,0.6)","arrowhead":0,"arrowwidth":1,"ax":0.0,"axref":"pixel","ay":62.0,"ayref":"pixel","bgcolor":"rgba(255,255,255,0.9)","font":{"color":"#e69f00","size":15},"showarrow":true,"text":"MLP-up VJP +C","x":1.0405,"y":0.18967567833333335},{"align":"center","arrowcolor":"rgba(45,24,16,0.6)","arrowhead":0,"arrowwidth":1,"ax":-62.22539674441617,"axref":"pixel","ay":-62.22539674441617,"ayref":"pixel","bgcolor":"rgba(255,255,255,0.9)","font":{"color":"#e69f00","size":15},"showarrow":true,"text":"MLP-up VJP -C","x":-0.7354166666666667,"y":0.35583333333333333},{"align":"center","font":{"color":"#666666","size":14},"showarrow":false,"text":"null zone of\u003cbr\u003erandom directions","x":1.8,"y":0.55},{"font":{"color":"#287a4d","size":14},"showarrow":false,"text":"clean steer -\u003e abrasive","x":0,"xanchor":"left","xref":"paper","y":1,"yref":"paper"},{"font":{"color":"#287a4d","size":14},"showarrow":false,"text":"clean steer -\u003e sycophantic","x":1,"xanchor":"right","xref":"paper","y":1,"yref":"paper"},{"font":{"color":"#c44e52","size":14},"showarrow":false,"text":"mostly side effects","x":0.5,"xref":"paper","y":0,"yref":"paper","yshift":18}],"title":{"text":"VJP steering on Bullshit Bench v2","x":0.5,"xanchor":"center"},"margin":{"l":75,"r":10,"t":40,"b":58},"font":{"color":"#111","size":15},"xaxis":{"title":{"text":"judge on-axis change"},"range":[-4.7198979,4.7198979],"showline":true,"linecolor":"#333333","gridcolor":"#e5e5e5","zeroline":false},"yaxis":{"title":{"text":"off-axis damage (lower is better)"},"range":[1.2933000000000001,-0.07],"showline":true,"linecolor":"#333333","gridcolor":"#e5e5e5","zeroline":false},"height":590,"plot_bgcolor":"white","paper_bgcolor":"white","showlegend":false},                        {"responsive": true}                    )                };            </script>        </div><table><thead><tr><th>method</th><th>score↑</th><th>-C on-axis↑</th><th>-C damage↓</th><th>+C on-axis↑</th><th>+C damage↓</th><th>seeds</th><th>N</th><th>rejected↓</th></tr></thead><tbody><tr><td>vjp_delta</td><td><strong>+1.371</strong></td><td><strong>1.849</strong></td><td>0.477</td><td>2.988</td><td>0.245</td><td>3</td><td>37</td><td>10</td></tr><tr><td>mean_diff</td><td>+0.789</td><td>1.492</td><td>0.703</td><td><strong>4.370</strong></td><td>0.695</td><td>3</td><td>60</td><td>24</td></tr><tr><td>vjp_mlp_up_shrink</td><td>+0.505</td><td>0.861</td><td>0.356</td><td>2.027</td><td>0.234</td><td>3</td><td>10</td><td>0</td></tr><tr><td>pca</td><td>+0.265</td><td>1.227</td><td>0.963</td><td>4.090</td><td>1.031</td><td>3</td><td>61</td><td>39</td></tr><tr><td>J_word</td><td>+0.078</td><td>0.275</td><td><strong>0.197</strong></td><td>1.392</td><td><strong>0.222</strong></td><td>1</td><td>8</td><td>2</td></tr><tr><td><em>random</em></td><td>-0.782</td><td>-0.425</td><td>0.357</td><td>2.995</td><td>0.553</td><td>10</td><td>6</td><td>5</td></tr></tbody></table>

diff --git a/index.md b/index.md
@@ -1,13 +1,15 @@
 # Results
 
-All rows use the same all-100 evaluation cohort. Named-method points are means over three seeds.
+All rows use the same all-100 evaluation cohort. The table reports each named method's seed count.
 The random cone shows ten vectors until fewer than half have two coherent directions. The table reports rejected evaluations.
 
 ![Judged effect against off-axis change](plot.png)
 
 | method | score↑ | -C on-axis↑ | -C damage↓ | +C on-axis↑ | +C damage↓ | seeds | N | rejected↓ |
 | --- | --- | --- | --- | --- | --- | --- | --- | --- |
-| vjp_delta | **+1.371** | **1.849** | 0.477 | 2.988 | **0.245** | 3 | 37 | 10 |
+| vjp_delta | **+1.371** | **1.849** | 0.477 | 2.988 | 0.245 | 3 | 37 | 10 |
 | mean_diff | +0.789 | 1.492 | 0.703 | **4.370** | 0.695 | 3 | 60 | 24 |
+| vjp_mlp_up_shrink | +0.505 | 0.861 | 0.356 | 2.027 | 0.234 | 3 | 10 | 0 |
 | pca | +0.265 | 1.227 | 0.963 | 4.090 | 1.031 | 3 | 61 | 39 |
-| *random* | -0.782 | -0.425 | **0.357** | 2.995 | 0.553 | 10 | 6 | 5 |
+| J_word | +0.078 | 0.275 | **0.197** | 1.392 | **0.222** | 1 | 8 | 2 |
+| *random* | -0.782 | -0.425 | 0.357 | 2.995 | 0.553 | 10 | 6 | 5 |
